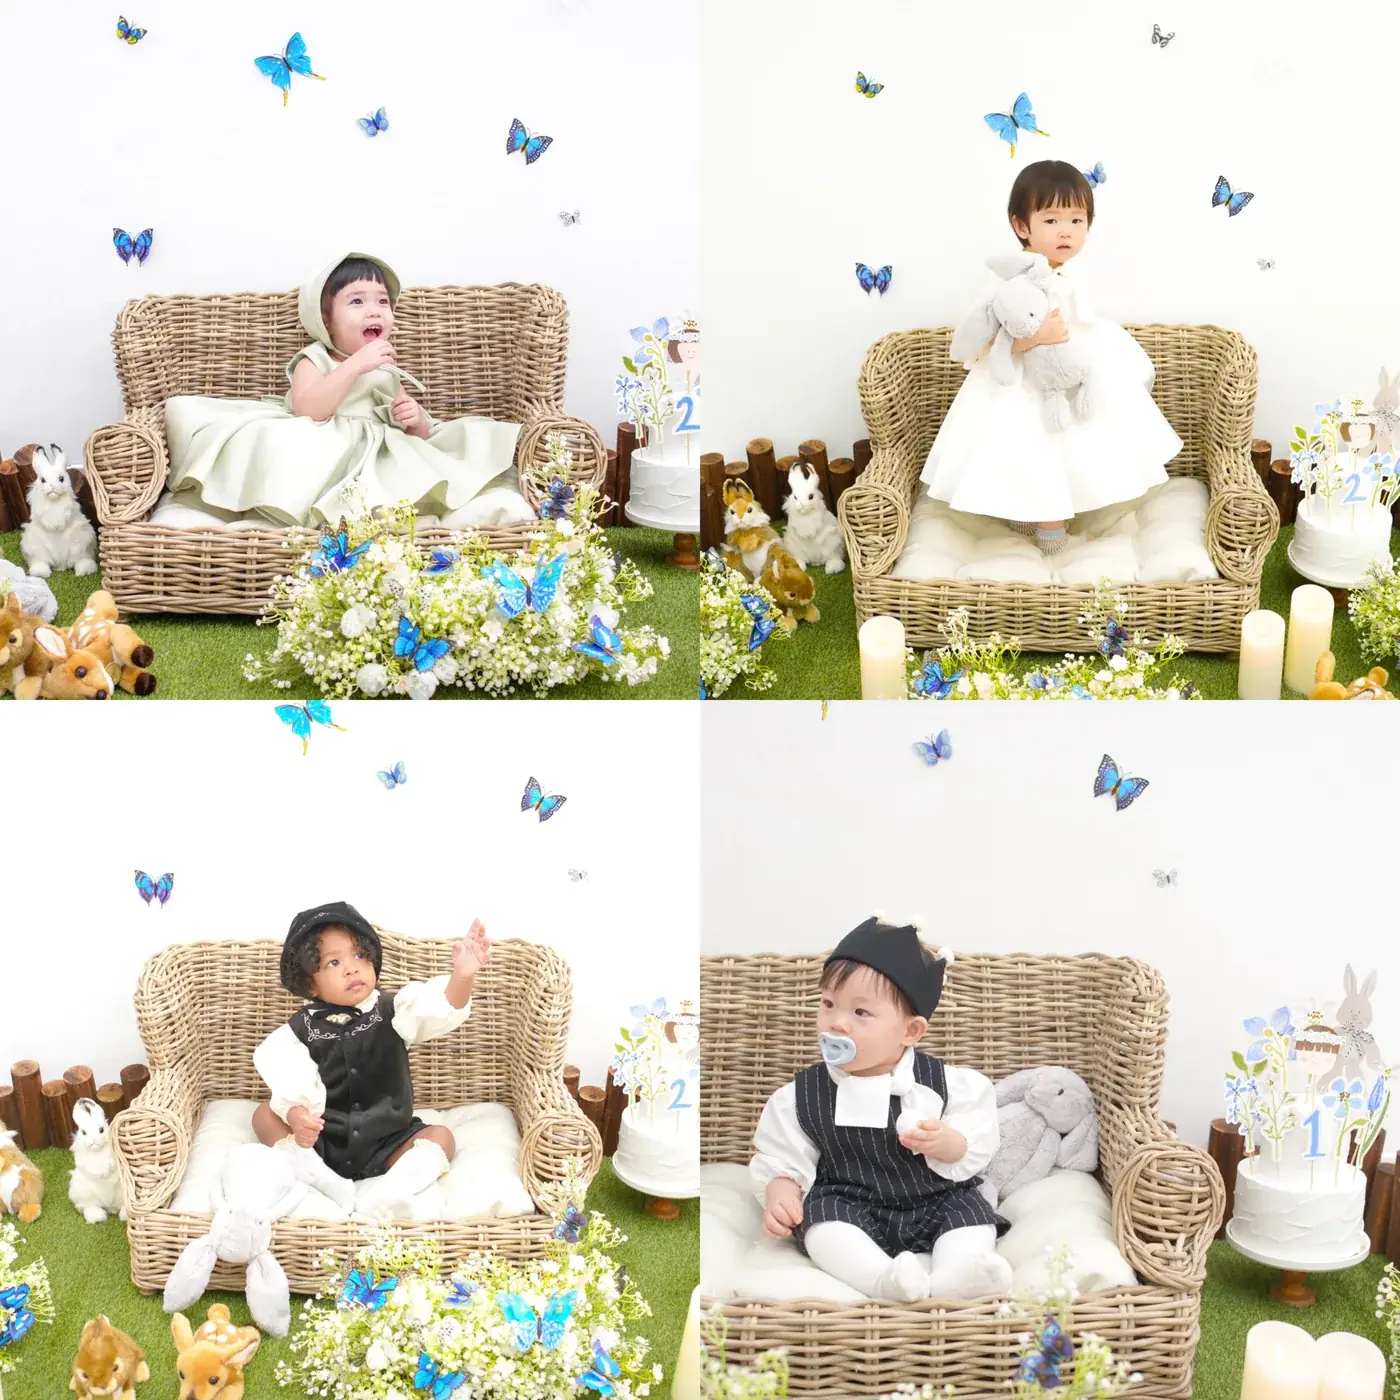
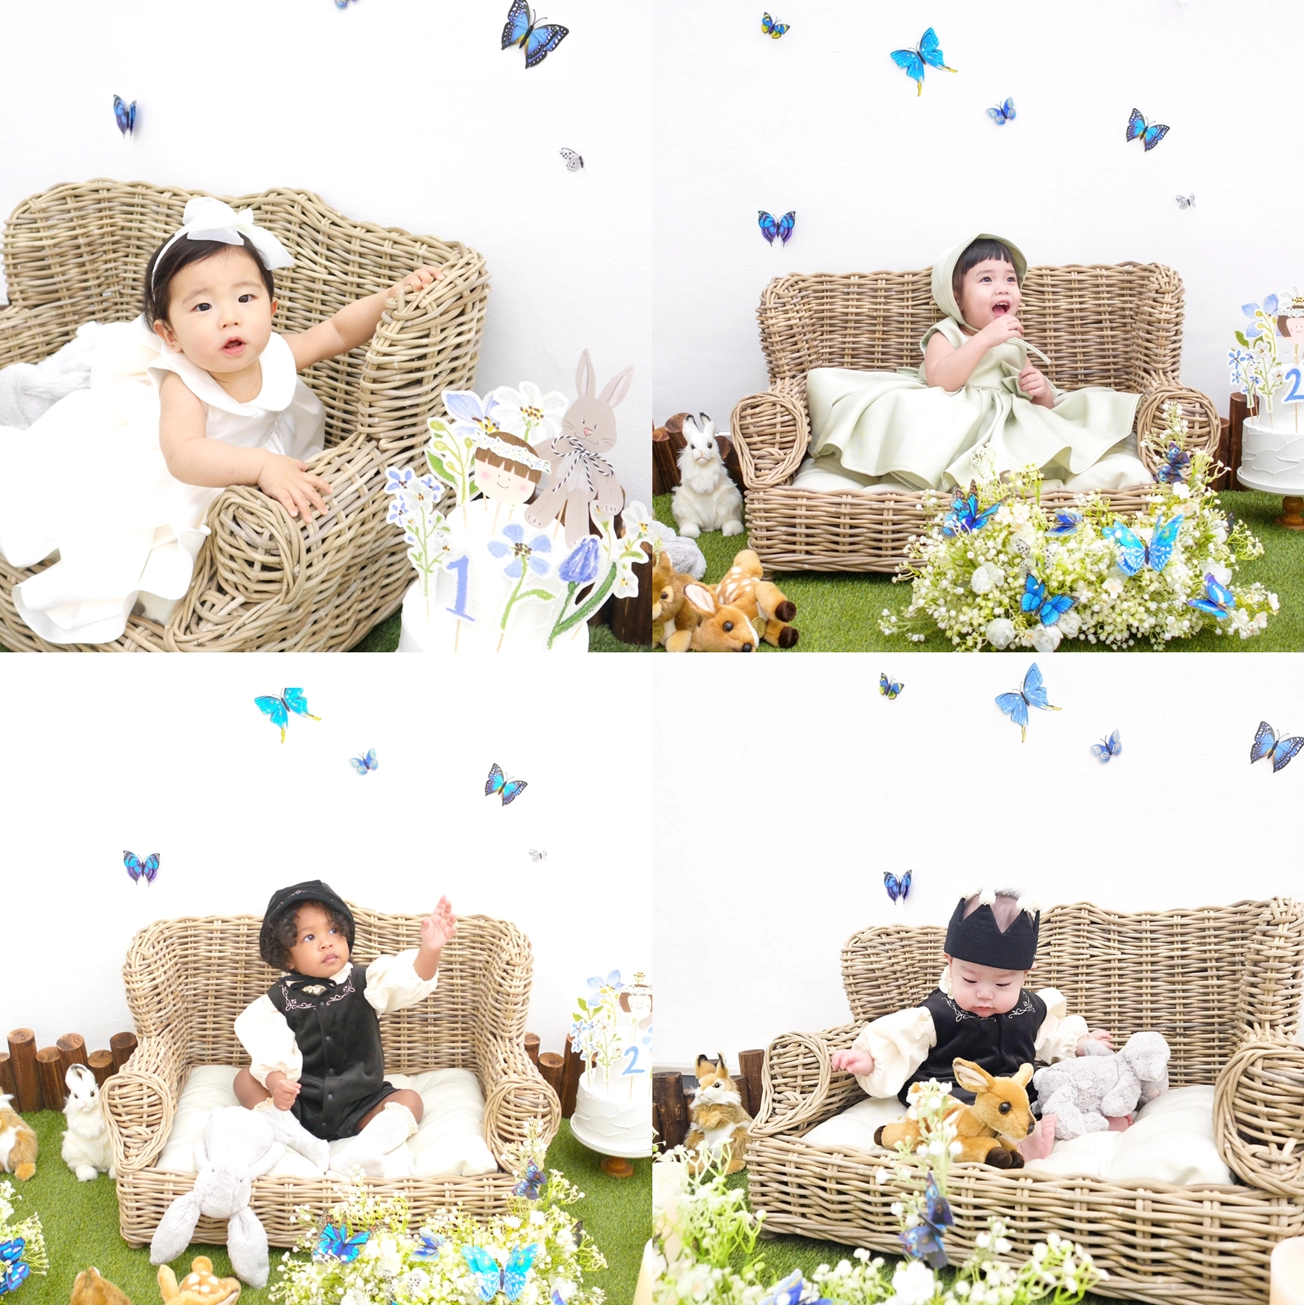
1
1

diff --git a/index.html b/index.html
@@ -312,6 +312,10 @@
       grid-template-columns: 1fr 1fr;
       gap: 16px;
     }
+    .fullview-grid--half {
+      grid-template-columns: repeat(2, minmax(0, 480px));
+      justify-content: center;
+    }
     .fullview-item {
       overflow: hidden;
       border-radius: 2px;
@@ -327,9 +331,11 @@
     .fullview-item:hover img { transform: scale(1.02); }
     @media (max-width: 768px) {
       .fullview-grid { grid-template-columns: 1fr; }
+      .fullview-grid--half { grid-template-columns: 1fr; }
     }
 
     /* ── CONCEPT ALL ── */
+    .concept-all {
       margin-top: 3rem;
       text-align: center;
     }
@@ -342,10 +348,11 @@
       text-transform: uppercase;
     }
     .concept-all img {
-      width: 100%;
-      max-width: 900px;
+      width: auto;
+      max-width: min(900px, 100%);
       border-radius: 2px;
-      display: inline-block;
+      display: block;
+      margin: 0 auto;
     }
 
     @media (max-width: 768px) {
@@ -784,12 +791,12 @@
   </div>
   <div class="hero-overlay"></div>
   <div class="hero-content">
-    <p class="hero-eyebrow">Hwaseong · Premium Self Studio</p>
+    <p class="hero-eyebrow">Dongtan · Premium Self Studio</p>
     <h1 class="hero-title">공간대여 &amp; 셀프 촬영<br><em>베이비 스튜디오</em></h1>
     <p class="hero-title-sub">베베로그 스튜디오</p>
     <p class="hero-subtitle">
-      프리미엄 의상과 아름다운 공간에서<br>
-      오롯이 우리 가족만의 시간으로
+      낯가림 없이 활짝,<br>
+      부모님의 시선으로 담는 자연스러운 미소
     </p>
     <a href="#reservation" class="hero-cta">
       <span class="hero-cta-text">예약하기</span>
@@ -811,7 +818,7 @@
   <div class="about-grid">
     <div class="reveal">
       <p class="section-tag">About Studio</p>
-      <h2 class="about-heading">단 한 번뿐인<br><em>첫 생일</em>의<br>기억</h2>
+      <h2 class="about-heading">백일의 첫 미소부터<br><em>두돌</em>의<br>발걸음까지,</h2>
       <p class="about-body">
         <strong style="font-size:1.05rem;color:var(--charcoal);font-weight:500;">준비는 최소로, 만족은 최대로.</strong><br><br>
         상차림 세팅 · 5가지 포토존 · 드레스 / 수트 / 한복 대여까지<br>
@@ -851,6 +858,7 @@
       <button class="concept-tab-btn" onclick="switchConcept(3, this)">컨셉 4</button>
       <button class="concept-tab-btn" onclick="switchConcept(4, this)">컨셉 5</button>
       <button class="concept-tab-btn" onclick="switchConcept(5, this)">스튜디오 전경</button>
+      <button class="concept-tab-btn" onclick="switchConcept(6, this)">수유실</button>
     </div>
 
     <!-- 컨셉 패널 -->
@@ -917,6 +925,13 @@
           <div class="fullview-item"><img src="Full_view_2.webp" alt="스튜디오 전경 2" loading="lazy"></div>
           <div class="fullview-item"><img src="Full_view_3.webp" alt="스튜디오 전경 3" loading="lazy"></div>
           <div class="fullview-item"><img src="Full_view_4.webp" alt="스튜디오 전경 4" loading="lazy"></div>
+        </div>
+      </div>
+      <!-- 수유실 -->
+      <div class="concept-panel" id="concept-6">
+        <div class="fullview-grid fullview-grid--half">
+          <div class="fullview-item"><img src="suyu_1.webp" alt="수유실 1" loading="lazy"></div>
+          <div class="fullview-item"><img src="suyu_2.webp" alt="수유실 2" loading="lazy"></div>
         </div>
       </div>
     </div>
@@ -1224,10 +1239,10 @@
   </div>
   <div class="footer-info">
     베베로그 셀프스튜디오<br>
-    경기도 화성시 · 매일 08:00 – 22:00 · 연중무휴
+    경기도 화성시 동탄대로시범길 134 카림애비뉴 0088호 · 매일 08:00 – 22:00 · 연중무휴
   </div>
   <div class="footer-links">
-    <a href="#">인스타그램</a>
+    <a href=""https://www.instagram.com/bebelog_studio?igsh=OG5waTJqYm5idDN5&utm_source=qr" target="_blank">인스타그램</a>
     <a href="https://map.naver.com/p/entry/place/2025048254" target="_blank">네이버 플레이스</a>
     <a href="http://pf.kakao.com/_lYixkn" target="_blank">카카오 채널</a>
   </div>
